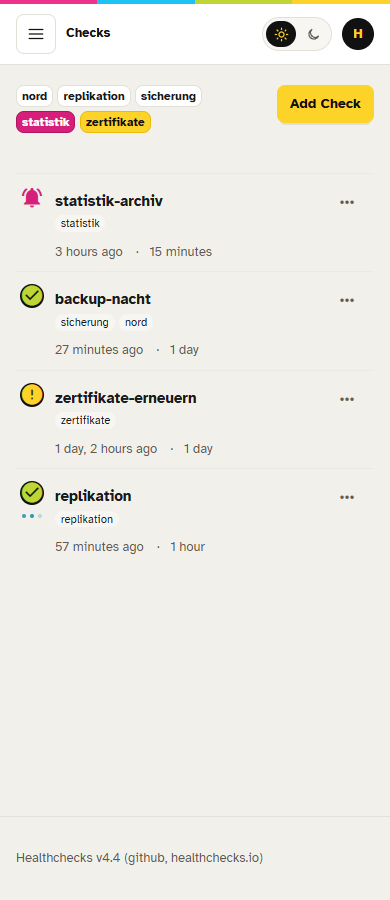
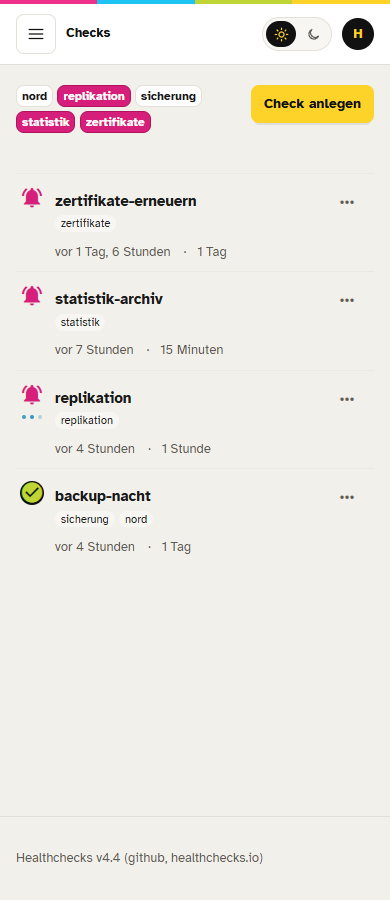
Dokumentation und Fassung 1.1.0
- VERSION 1.1.0, CHANGELOG mit dem Abschnitt 1.1.0.
- README: Sprache und Katalog (Dateien, Einträge, Inventur, was englisch
  bleibt, Einstellungen), Mails im Hausdesign mit ihren Einstellungen,
  Zeile für eine eigene local_settings.py, Hinweis-Issue bei neuen
  Versionen, neue Prüfungen der CI, Befehle für die lokale Arbeit, Bilder
  der deutschen Oberfläche und zweier Mails.
- Spec 1.0 verweist für die Texte auf die Spec 1.1.
- Feinschliff: Überschrift der Signal-Mail, zwei Anleitungssätze.

diff --git a/werkbank/deutsch/mails/signal-rate-limited-body-html.html b/werkbank/deutsch/mails/signal-rate-limited-body-html.html
@@ -7,7 +7,7 @@
 
 {% block etikett %}Signal{% endblock %}
 
-{% block ueberschrift %}Per Mail statt Signal{% endblock %}
+{% block ueberschrift %}Benachrichtigung per Mail{% endblock %}
 
 {% block content %}
 <p style="margin:0 0 16px;">Hallo,</p>

diff --git a/README.md b/README.md
@@ -2,23 +2,26 @@
 
 Die Oberfläche von [Healthchecks](https://github.com/healthchecks/healthchecks) in der Werkbank von bright color: Onyx-Leiste links mit den Projekten als Akkordeon, Kopfzeile mit Brotkrumen und Umschalter für Hell und Dunkel, warmes Papier als Grund, weiße Karten mit Rundung, Gelb als Aktionsfarbe, Anton in Versalien für Titel, Atkinson Hyperlegible für Text und das Vierfarbband am oberen Rand.
 
-Das Image baut auf dem offiziellen Image von Healthchecks auf und folgt jeder neuen Version: Die CI baut, prüft im Browser und veröffentlicht nach `ghcr.io/brightcolor/healthchecks-werkbank`. Auf dem Server holt ein Timer neue Fassungen, sichert vorher die Datenbank und nimmt ein gescheitertes Update selbst zurück.
+Die Oberfläche spricht Deutsch, die Mails kommen im Hausdesign. Das Image baut auf dem offiziellen Image von Healthchecks auf und folgt jeder neuen Version: Die CI baut, prüft im Browser und veröffentlicht nach `ghcr.io/brightcolor/healthchecks-werkbank`. Auf dem Server holt ein Timer neue Fassungen, sichert vorher die Datenbank und nimmt ein gescheitertes Update selbst zurück.
 
 ![Checks, hell](docs/bilder/checks-hell.png)
 ![Checks, dunkel](docs/bilder/checks-dunkel.png)
 
 <img src="docs/bilder/checks-390.png" alt="Checks auf dem Handy" width="260"> <img src="docs/bilder/anmeldung.png" alt="Anmeldeseite" width="520">
 
-**Stand: 1.0.0**, geprüft gegen Healthchecks v4.4.
+<img src="docs/bilder/mail-alarm.png" alt="Alarm-Mail auf dem Handy" width="260"> <img src="docs/bilder/mail-bericht.png" alt="Monatsbericht auf dem Handy" width="240">
+
+**Stand: 1.1.0**, geprüft gegen Healthchecks v4.4.
 
 ## Was es macht
 
-- **Leiste links.** Jedes Projekt ist ein Modul im Akkordeon, sein Punkt zeigt den Zustand in der Hausampel. Das offene Projekt führt zu Checks, Integrations, Badges und Settings. Darunter stehen New Project, Docs, Account Settings und Log Out.
+- **Leiste links.** Jedes Projekt ist ein Modul im Akkordeon, sein Punkt zeigt den Zustand in der Hausampel. Das offene Projekt führt zu Checks, Integrationen, Badges und Einstellungen. Darunter stehen Neues Projekt, Doku, Konto und Abmelden.
 - **Hell und dunkel.** Der Umschalter in der Kopfzeile speichert in dieselbe Darstellungs-Einstellung wie das Profil von Healthchecks; „System“ bleibt dort wählbar.
 - **Vollständig.** Die 78 Farbvariablen von Healthchecks zeigen auf Werkbank-Rollen. Jede feste Farbe aus den Stylesheets (in v4.4 sind es 630 Angaben) bekommt beim Bau eine Rolle; eine Farbe ohne Eintrag wird nach Farbton und Helligkeit zugeordnet und im CI-Lauf genannt.
 - **Handy.** Unter 900 px fährt die Leiste über den Menüknopf herein. Unter 640 px zeigen Checks, Integrationen, Log sowie Projekt- und Teamlisten jede Zeile zweizeilig: oben der Titel, darunter leise der Rest. Die Kopfzeile nennt dort die aktuelle Seite.
 - **Barrierefrei.** Kontrast nach WCAG AA in beiden Modi, Schrift aus den Tokens ab 4,8:1, sichtbarer Fokus, Sprunglink, ruhige Leiste bei `prefers-reduced-motion`.
-- **Texte.** Die Oberfläche bleibt englisch wie Healthchecks; die Anmeldeseite grüßt mit „Moin.“.
+- **Deutsch.** Seiten, Dialoge, Meldungen, Integrationen und Alarme sprechen Deutsch im Du. Zustände heißen in Ordnung, verspätet und ausgefallen; aus Period wird Intervall, aus Grace Time Kulanz. Relative Zeiten stehen als „vor 1 Tag, 5 Stunden“, Datumsangaben deutsch. Die Doku bleibt englisch. Die Anmeldeseite grüßt mit „Moin.“.
+- **Mails im Hausdesign.** Tinte-Balken mit Logo, Vierfarbband, Etikett und Anton-Titel, Hausampel für Zustände, Knopf in Tinte. Jede Mail beginnt mit „Hallo,“ und endet mit „Viele Grüße“ und dem Namen der Instanz; die Nur-Text-Fassungen bleiben, Zeilen bis 78 Zeichen.
 
 ## So funktioniert es
 
@@ -28,10 +31,12 @@ healthchecks/healthchecks:<version>
        ├─ werkbank/einbau.py   setzt zwei Zeilen in templates/base.html: Stylesheet und Leiste
        ├─ werkbank/farben.py   baut static/bc/werkbank.css aus Schriften, Tokens, Rollen,
        │                       Variablen, abgeleiteten Farben und der Stilschicht
+       ├─ werkbank/mails.py    setzt das Mail-Layout an die Stelle von templates/emails/base.html
+       ├─ werkbank/sprache.py  setzt Filter und Einstellungen ein und wendet den Katalog an
        └─ collectstatic und compress wie im offiziellen Image
 ```
 
-Der Code von Healthchecks bleibt unverändert. Findet `einbau.py` einen Anker nicht genau einmal, oder bringt Healthchecks eine neue Farbvariable mit, bricht der Bau ab und nennt die Stelle.
+Der Bau ändert Healthchecks nur über diese Schritte; jeder nennt seine Stellen im Bericht. Findet `einbau.py` einen Anker nicht genau einmal, bringt Healthchecks eine neue Farbvariable mit oder fehlt dem Mail-Layout ein Block des Originals, bricht der Bau ab und nennt die Stelle. Texte, die der Katalog nicht findet, bleiben englisch und stehen im Hinweis (siehe unten).
 
 | Datei | Inhalt |
 |---|---|
@@ -41,6 +46,10 @@ Der Code von Healthchecks bleibt unverändert. Findet `einbau.py` einen Anker ni
 | `werkbank/rollen.css` | eigene Rollen: Tönungen, Schatten, Zustände |
 | `werkbank/stil.css` | Stilschicht |
 | `werkbank/templates/bc/leiste.html`, `werkbank/static/bc/leiste.js` | Leiste und Kopfzeile |
+| `werkbank/mails/base.html` | Mail-Layout im Hausdesign, dazu die Prüfsumme des Originals |
+| `werkbank/deutsch/` | Katalog für Deutsch (siehe „Sprache und Katalog“) |
+| `werkbank/erweiterungen.toml` | Filter `zustand`, `art`, `rolle` und Tag `werkbank_mail` für `hc_extras.py`, in jeder Sprache |
+| `werkbank/django/` | Einstellungsmodul und Formatmodul, die der Bau nach `hc/` legt |
 | `vendor/hausschrift/` | Kopie der Hausschrift von bright color (Tokens, Schriften, Logo, Prüfwerkzeuge) |
 
 Beim Bau liest `farben.py` diese Umgebungsvariablen; die Vorgaben stehen gesammelt in `VORGABEN` am Anfang der Datei.
@@ -55,11 +64,74 @@ Beim Bau liest `farben.py` diese Umgebungsvariablen; die Vorgaben stehen gesamme
 | `WB_ZIEL` | `bc/werkbank.css` | fertiges Stylesheet der Werkbank | Pfad in `WB_STATIC` |
 | `WB_ZIEL_FARBEN` | `bc/farben.css` | abgeleitete Farben als eigene Datei zum Nachsehen | Pfad in `WB_STATIC` |
 
+## Sprache und Katalog
+
+Das Image spricht Deutsch, sobald `WB_SPRACHE` auf `de` steht (Vorgabe; als Build-Argument `--build-arg WB_SPRACHE=en` bleibt Healthchecks englisch). Die Übersetzung steckt in `werkbank/deutsch/`:
+
+| Datei | Inhalt |
+|---|---|
+| `katalog.toml` | Stand (die Healthchecks-Version, für die der Katalog vollständig ist), Geltungsbereich, Wörtertabellen und Korrekturen an Djangos eigenen Texten |
+| `oberflaeche.toml` | Seiten und Dialoge unter `templates/` außerhalb von Doku und Mails |
+| `integrationen.toml` | Einrichtungsseiten und Nachrichten der Integrationen |
+| `code.toml` | Texte im Code: Dauern, Formular- und Fehlermeldungen, Skripte, Feldnamen der Alarme |
+| `werkbank.toml` | eigene Texte der Werkbank: Leiste, Kopfzeile, Mail-Layout |
+| `mails.toml`, `mails/` | alle Mail-Vorlagen auf Deutsch |
+
+Ein Katalog kennt diese Einträge:
+
+- `[[text]]` ersetzt ein ganzes sichtbares Textstück oder einen sichtbaren Attributwert (`title`, `placeholder`, `aria-label`, `alt`, Beschriftung von Knöpfen); `datei = "*"` gilt für alle Vorlagen im Geltungsbereich. Gleiches `en` und `de` markiert ein geprüftes Wort, das bleibt.
+- `[[quelltext]]` ersetzt ein genaues Stück Quelle, optional mit `anzahl`; so entstehen ganze Sätze, die im Original über Tags verteilt sind, und Texte in Python und JavaScript.
+- `[[vorlage]]` setzt eine ganze Datei aus dem Katalog-Ordner an die Stelle einer Vorlage, solange das Original die genannte Prüfsumme hat. Die Mails nutzen das; ändert Healthchecks eine Mail, bleibt sie englisch, bis die deutsche Fassung angepasst ist.
+- Die Wörtertabellen `[zustaende]`, `[arten]` und `[rollen]` geben Zuständen, Integrationsarten und Rollen ihre deutschen Namen für die Filter `zustand`, `art` und `rolle`. Healthchecks führt einige dieser Namen in seinen Migrationen; die Tabellen lassen sie dort unverändert.
+- `[[django]]` korrigiert Djangos eigene Übersetzungen, etwa „vor 1 Tag, 5 Stunden“; der Bau schreibt sie als MO-Datei nach `WB_LOCALE`.
+
+Der Bau meldet jedes Textstück, das nach dem Katalog noch englisch ist, und jeden Eintrag ohne Fundstelle. Für neue Texte gibt die Inventur ein TOML-Gerüst aus:
+```bash
+python werkbank/sprache.py inventur --wurzel <Ordner von Healthchecks> --werkbank werkbank --datei 'templates/front/*'
+```
+
+Englisch bleiben die Doku, die Klartextbeschreibung von Cron-Ausdrücken (sie stammt aus der Bibliothek cronsim), Meldungen der Browser-Schnittstelle für Sicherheitsschlüssel, die Meta-Beschreibungen der Integrationsseiten, Antworten der API und Protokollzeilen.
+
+| Einstellung | Vorgabe | Bedeutung | Grenzen |
+|---|---|---|---|
+| `WB_SPRACHE` | `de` | Sprache des Images; `en` lässt die Texte von Healthchecks stehen | `de` oder `en` |
+| `WB_KATALOG` | `deutsch` | Ordner des Katalogs | Ordner in `werkbank/` |
+| `WB_KATALOG_KONFIG` | `katalog.toml` | Datei mit Stand, Geltungsbereich und Wörtertabellen | Datei im Katalog-Ordner |
+| `WB_ERWEITERUNGEN` | `erweiterungen.toml` | Filter und Tags für `hc_extras.py` | Datei in `werkbank/` |
+| `WB_EINSTELLUNGSMODUL` | `hc/werkbank_einstellungen.py` | Ziel des Einstellungsmoduls | Pfad in Healthchecks |
+| `WB_FORMATMODUL` | `hc/werkbank_formate` | Ziel des Formatmoduls (Dezimalpunkt für Zahlen, die Skripte lesen) | Pfad in Healthchecks |
+| `WB_LOCAL_SETTINGS` | `hc/local_settings.py` | Datei, die das Einstellungsmodul lädt | Pfad in Healthchecks |
+| `WB_LOCALE` | `hc/werkbank_locale` | Ordner für die Korrekturen an Djangos Übersetzungen | Pfad in Healthchecks |
+
+Wer eine eigene `hc/local_settings.py` einhängt, übernimmt daraus die Zeile `from hc.werkbank_einstellungen import *`; sonst fehlen Sprache, Formate und Mail-Einstellungen.
+
+## Mails
+
+Das Layout `werkbank/mails/base.html` folgt der Mail-Vorlage der Hausschrift: Papier außen, Weiß innen, 600 px, Stile inline, Geistertabelle und Knopf mit VML für Outlook, Vorschautext, Logo als PNG über die Adresse der Instanz. Vor dem Einsetzen vergleicht der Bau Blöcke und Variablen mit dem Original; fehlt einer, bricht er ab. Weicht nur die Prüfsumme ab, steht ein Hinweis im Bericht.
+
+Der Fuß nennt Instanz, Grund der Mail und den Abmeldelink von Healthchecks. Anschrift, Impressum und Datenschutz erscheinen, sobald ihre Einstellungen gesetzt sind; Healthchecks prüft sie beim Start und hält mit einer Meldung an, die Einstellung, Wert und erwartete Form nennt.
+
+| Einstellung | Vorgabe | Bedeutung | Grenzen |
+|---|---|---|---|
+| `WB_MAIL_ANSCHRIFT` | leer | Anschrift im Mail-Fuß | eine Zeile, bis 200 Zeichen |
+| `WB_MAIL_IMPRESSUM_URL` | leer | Link zum Impressum | Adresse mit `https://` |
+| `WB_MAIL_DATENSCHUTZ_URL` | leer | Link zur Datenschutzerklärung | Adresse mit `https://` |
+
+Die drei Werte kommen als Umgebungsvariablen in den Container, etwa über die `.env` von Compose. Für den Bau gelten außerdem:
+
+| Einstellung | Vorgabe | Bedeutung | Grenzen |
+|---|---|---|---|
+| `WB_MAIL_LAYOUT` | `templates/emails/base.html` | Layout von Healthchecks | Pfad in Healthchecks |
+| `WB_MAIL_VORLAGE` | `mails/base.html` | Layout der Werkbank | Pfad in `werkbank/` |
+| `WB_MAIL_PRUEFSUMME` | `mails/original.sha256` | Prüfsumme des Originals | Pfad in `werkbank/` |
+| `WB_MAIL_LOGO` | `assets/logo/png/bc-logo-light-noclaim.png` | Logo für den Tinte-Balken | Pfad in `vendor/hausschrift/` |
+| `WB_MAIL_LOGO_ZIEL` | `static/bc/logo/bc-logo-light-noclaim.png` | Ziel des Logos | Pfad in Healthchecks |
+
 ## Fassungen und Tags
 
 | Tag | Bedeutung |
 |---|---|
-| `4.4-wb1.0.0` | Healthchecks 4.4 mit Werkbank 1.0.0; bleibt unverändert und trägt den Rückweg |
+| `4.4-wb1.1.0` | Healthchecks 4.4 mit Werkbank 1.1.0; bleibt unverändert und trägt den Rückweg |
 | `4.4` | neueste Werkbank für Healthchecks 4.4 |
 | `latest` | neueste Fassung insgesamt; diesem Tag folgt das Update-Skript |
 
@@ -69,11 +141,15 @@ Eine Theme-Änderung erhöht `VERSION`. Ein Push auf `main` mit derselben Fassun
 
 Die CI schaut viermal täglich nach einem neuen Release. Liegt das Basis-Image auf Docker Hub, baut sie für amd64 und arm64 und prüft:
 
-- Einheitstests, Shellcheck und Lint der Hausschrift,
-- jede Seite hell und dunkel im Browser mit Kontrastlauf, sechs Breiten ohne Querscrollen, Listen auf dem Handy,
+- Einheitstests, Shellcheck und Lint der Hausschrift, dazu die Vollständigkeit des Katalogs gegen die Version aus `katalog.toml`,
+- jede Vorlage kompiliert in der Testinstanz,
+- jede Seite hell und dunkel im Browser mit Kontrastlauf, sechs Breiten ohne Querscrollen, Listen auf dem Handy, Knöpfe mit ganzer Beschriftung,
+- jede Mail mit Musterdaten bei 360, 390 und 760 px, mit Kontrast, Layout, deutschem Betreff und Textzeilen bis 78 Zeichen,
 - die Update-Probe gegen eine lokale Registry: Wechsel, gleiche Fassung, Rückweg mit Datenbank, Auslassen der zurückgenommenen Fassung, `--erneut`, ungültige und abweichende Einstellungen.
 
 Ist alles grün, gehen die Tags nach ghcr.io. Ist etwas rot, geht nichts raus: Ein Issue mit dem Label `theme-rot` nennt die gescheiterte Prüfung mit Auszug und Link zum Lauf, und GitHub schickt eine Mail. Nach der Anpassung und einem Push auf `main` schließt der nächste grüne Lauf das Issue.
+
+Texte, die der Katalog in einer neuen Version nicht findet, halten nichts auf: Sie erscheinen englisch, die Fassung geht raus, und ein Issue mit dem Label `uebersetzung` (`WB_HINWEIS_LABEL`) nennt die Stellen mit Datei und Text, je Tabelle höchstens `WB_BERICHT_ZEILEN` Zeilen (Vorgabe 50). Die Zusammenfassung jedes Laufs zeigt denselben Abschnitt. Sobald der Katalog ergänzt und `stand` in `katalog.toml` auf die neue Version gesetzt ist, schließt der nächste Lauf ohne Hinweise das Issue.
 
 ## Auf dem Server
 
@@ -85,7 +161,7 @@ services:
 ```
 und in der `.env`:
 ```
-HC_IMAGE_TAG=4.4-wb1.0.0
+HC_IMAGE_TAG=4.4-wb1.1.0
 ```
 
 Das Update-Skript und seine Einbindung:
@@ -143,7 +219,7 @@ python tools/dev.py starten
 npm ci
 python tools/dev.py pruefen
 ```
-`vorbereiten` legt `.venv/` an, holt Healthchecks nach `.upstream/`, setzt die Werkbank ein und legt Musterdaten an; der Zugang der Musterkonten steht in `.upstream/dev-zugang.txt`. Nach Änderungen an `stil.css`, `rollen.css`, `variablen.css`, `farben.json` oder `leiste.js` baut `python tools/dev.py stil` neu, der Server läuft weiter. Nach Änderungen an Vorlagen setzt `python tools/dev.py einsetzen` sie ein; danach den Server neu starten. Unter Windows bricht `vorbereiten` bei laufendem Server ab, bevor es die Arbeitskopie ersetzt.
+`vorbereiten` legt `.venv/` an, holt Healthchecks nach `.upstream/`, setzt die Werkbank ein und legt Musterdaten an; der Zugang der Musterkonten steht in `.upstream/dev-zugang.txt`. Nach Änderungen an `stil.css`, `rollen.css`, `variablen.css`, `farben.json` oder `leiste.js` baut `python tools/dev.py stil` neu, der Server läuft weiter. Nach Änderungen an Vorlagen, am Katalog oder an den Mails setzt `python tools/dev.py einsetzen` alles neu ein und meldet englische Reste; danach den Server neu starten. `python tools/dev.py vorlagen` kompiliert jede Vorlage, `python tools/dev.py mails` rendert jede Mail mit den Musterdaten nach `tests/e2e/ergebnisse/mails/`. Unter Windows bricht `vorbereiten` bei laufendem Server ab, bevor es die Arbeitskopie ersetzt.
 
 Weitere Prüfungen:
 ```bash

diff --git a/CHANGELOG.md b/CHANGELOG.md
@@ -1,6 +1,15 @@
 # Änderungen
 
-## 1.0.0 (unveröffentlicht)
+## 1.1.0 (5. Oktober 2026)
+
+- Oberfläche auf Deutsch: Seiten, Dialoge, Meldungen, Skripte, Integrationen und Alarme. Zustände heißen in Ordnung, verspätet und ausgefallen, Period heißt Intervall, Grace Time Kulanz. Die Doku bleibt englisch.
+- Katalog in `werkbank/deutsch/` mit Einträgen für ganze Textstücke, Quelltext und ganze Vorlagen, Wörtertabellen für Zustände, Integrationsarten und Rollen sowie Korrekturen an Djangos Zeitangaben („vor 1 Tag, 5 Stunden“).
+- Mails im Hausdesign: alle Mails im Layout mit Etikett, Titel und Vorschau, Hausampel, Knopf in Tinte; „Hallo,“ und „Viele Grüße“; Nur-Text-Fassungen mit Zeilen bis 78 Zeichen. Anschrift, Impressum und Datenschutz im Fuß über `WB_MAIL_ANSCHRIFT`, `WB_MAIL_IMPRESSUM_URL` und `WB_MAIL_DATENSCHUTZ_URL`.
+- Neue Healthchecks-Versionen mit Texten, die der Katalog noch nicht kennt, gehen raus; ein Issue mit dem Label `uebersetzung` nennt die Stellen.
+- CI: Vollständigkeit des Katalogs, jede Vorlage kompiliert, jede Mail im Browser, Abschnitt „Übersetzung“ im Bericht.
+- Weitere Integrationen: Der Knopf wächst mit seiner Beschriftung.
+
+## 1.0.0 (5. Oktober 2026)
 
 - Werkbank für Healthchecks: Onyx-Leiste mit Projekten als Akkordeon, Kopfzeile mit Umschalter für Hell und Dunkel, Anmeldeseite mit Markenfläche.
 - Farbableitung: Jede feste Farbe aus den Stylesheets von Healthchecks bekommt eine Werkbank-Rolle.

diff --git a/docs/superpowers/specs/2026-10-05-healthchecks-werkbank-design.md b/docs/superpowers/specs/2026-10-05-healthchecks-werkbank-design.md
@@ -22,7 +22,7 @@ hc.bcsrv.de, das selbst betriebene Healthchecks auf docker-a1, bekommt die Werkb
 | Automatik | bei Grün bauen, prüfen und ausliefern; bei Rot Stopp mit Meldung, Anpassung in einer Sitzung |
 | Sichtbarkeit | öffentliches Repo `brightcolor/healthchecks-werkbank`, Image `ghcr.io/brightcolor/healthchecks-werkbank` |
 | Auslieferung | docker-a1 holt neue Images selbst über einen Timer; GitHub hat keinen Zugang zum Server |
-| Texte | Die Oberfläche bleibt englisch wie Healthchecks. Leiste, Kopfzeile, Meldungen und Vorlesetexte des Themes nutzen dieselbe Sprache und dieselben Begriffe. Der Gruß „Moin.“ auf der Anmeldeseite bleibt. Skripte auf dem Server melden auf Deutsch. |
+| Texte | Die Oberfläche bleibt englisch wie Healthchecks. Leiste, Kopfzeile, Meldungen und Vorlesetexte des Themes nutzen dieselbe Sprache und dieselben Begriffe. Der Gruß „Moin.“ auf der Anmeldeseite bleibt. Skripte auf dem Server melden auf Deutsch. Seit 1.1 spricht die Oberfläche Deutsch, siehe `2026-10-05-healthchecks-werkbank-deutsch-design.md`. |
 | Lizenz | BSD 2-Clause wie die übrigen Theme-Repos von bright color. Die Lizenz von Healthchecks (BSD 3-Clause) liegt als `UPSTREAM-LICENCE` bei, die Schriften mit ihrer OFL. Die Logos sind Marken von bright color und von der Repo-Lizenz ausgenommen. |
 
 ## 3. Ausgangslage
